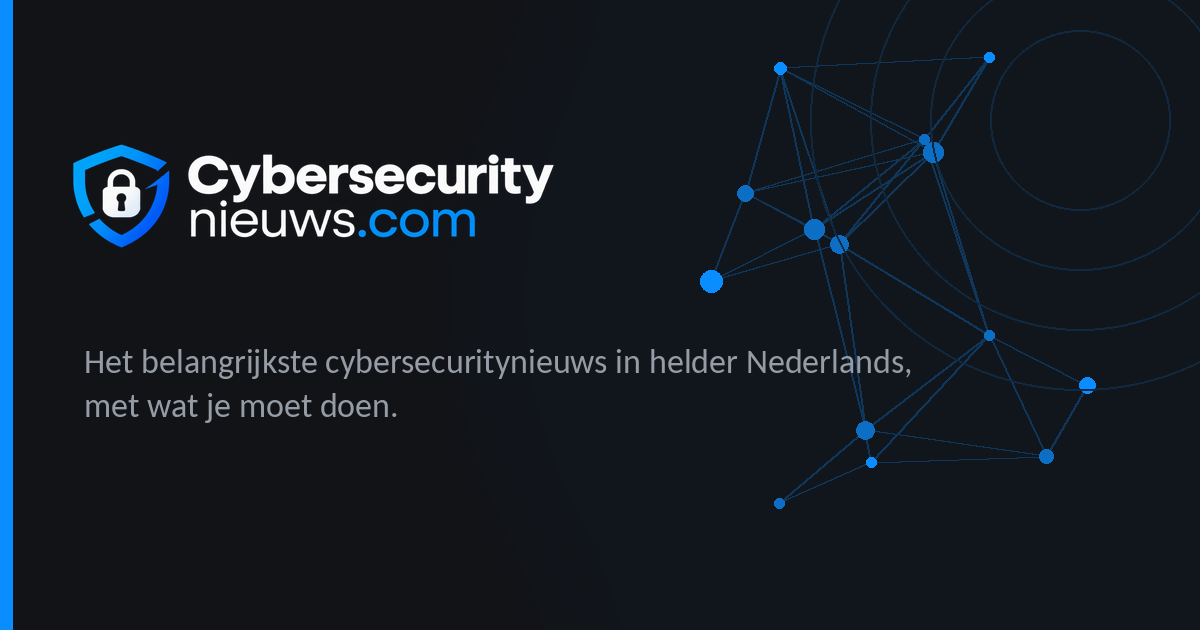
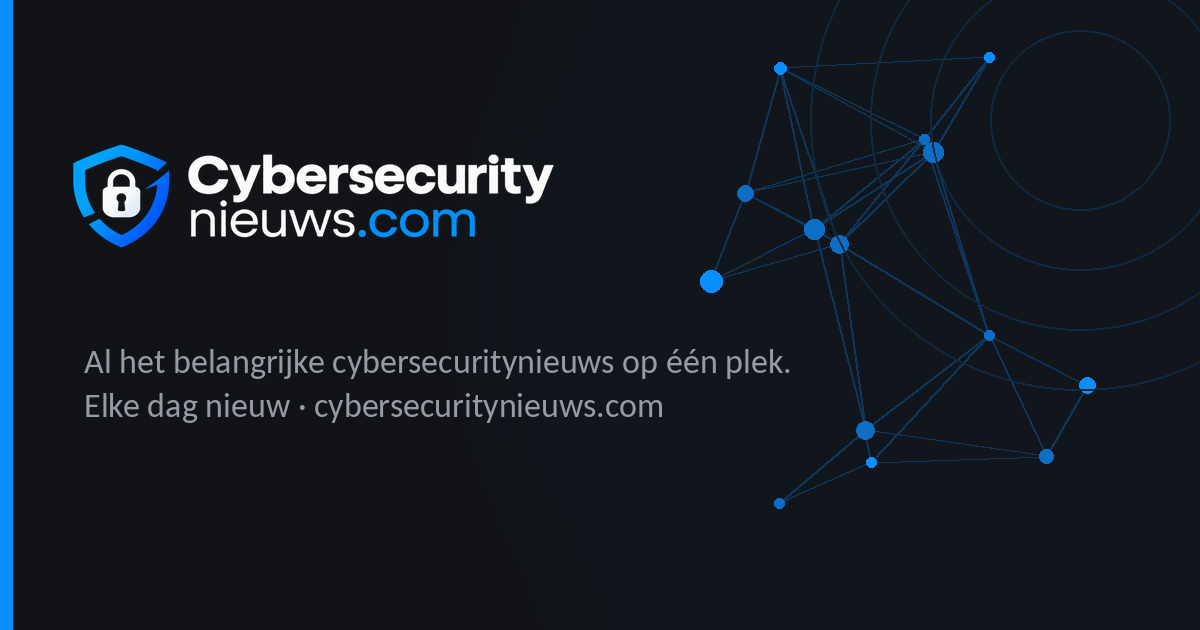
Tagline overal: 'Al het belangrijke cybersecuritynieuws op één plek'
Claude-Session: https://claude.ai/code/session_011wL1KZWUErbCLd6CxVXXmA

Changed region(s): [[0.0617, 0.5429, 0.7708, 0.6635]]

diff --git a/templates/about.html b/templates/about.html
@@ -12,7 +12,7 @@
   </header>
 
   <div class="prose">
-    <p>{{ site.name }} brengt het belangrijkste internationale en Nederlandse cybersecuritynieuws samen in helder Nederlands. Bij elk bericht staat niet alleen <em>wat</em> er is gebeurd, maar vooral <strong>wat je moet doen</strong>.</p>
+    <p>{{ site.name }} brengt al het belangrijke cybersecuritynieuws samen op één plek: internationaal en uit Nederland en België, elke dag bijgewerkt. Bij elk bericht lees je wat er is gebeurd, waarom het ertoe doet en welke stappen je kunt nemen.</p>
 
     <h2>Hoe een bericht tot stand komt</h2>
     <ol>

diff --git a/templates/redactie.html b/templates/redactie.html
@@ -11,7 +11,7 @@
   <header class="page-head">
     <p class="eyebrow">Over ons</p>
     <h1>De redactie</h1>
-    <p class="page-head__intro">{{ site.name }} brengt het belangrijkste cybersecuritynieuws in helder Nederlands, met bij elk bericht wat je moet doen.</p>
+    <p class="page-head__intro">{{ site.name }} brengt al het belangrijke cybersecuritynieuws samen op één plek, elke dag bijgewerkt.</p>
   </header>
 
   <section class="person">

diff --git a/pipeline/covers.py b/pipeline/covers.py
@@ -101,8 +101,8 @@ def make_default_og(out: Path) -> None:
     d = ImageDraw.Draw(img)
     d.rectangle([0, 0, 12, H], fill=BLUE)
     draw_logo(img, 72, 120, 3.3)
-    d.text((84, 340), "Het belangrijkste cybersecuritynieuws in helder Nederlands,", font=_font("Carlito-Regular.ttf", 34), fill=MUTED)
-    d.text((84, 384), "met wat je moet doen.", font=_font("Carlito-Regular.ttf", 34), fill=MUTED)
+    d.text((84, 340), "Al het belangrijke cybersecuritynieuws op één plek.", font=_font("Carlito-Regular.ttf", 34), fill=MUTED)
+    d.text((84, 384), "Elke dag nieuw · cybersecuritynieuws.com", font=_font("Carlito-Regular.ttf", 34), fill=MUTED)
     if out.suffix == ".webp":
         img.convert("RGB").save(out, "WEBP", quality=82, method=6)
     else:

diff --git a/tools/nieuwsbrief.py b/tools/nieuwsbrief.py
@@ -49,7 +49,7 @@ def shell(inner: str, preheader: str = "", footer: str = "") -> str:
 </td></tr>
 {inner}
 <tr><td style="padding:20px 32px 28px;border-top:1px solid {LINE};font:13px/1.6 {FONT};color:{MUTED};">
-{footer}CyberSecurityNieuws.com · Het belangrijkste cybersecuritynieuws in helder Nederlands<br>
+{footer}CyberSecurityNieuws.com · Al het belangrijke cybersecuritynieuws op één plek<br>
 <a href="{SITE}/" style="color:{BLUE};">Website</a> · <a href="{SITE}/privacy/" style="color:{BLUE};">Privacy</a>
 </td></tr></table></td></tr></table></body></html>"""
 
